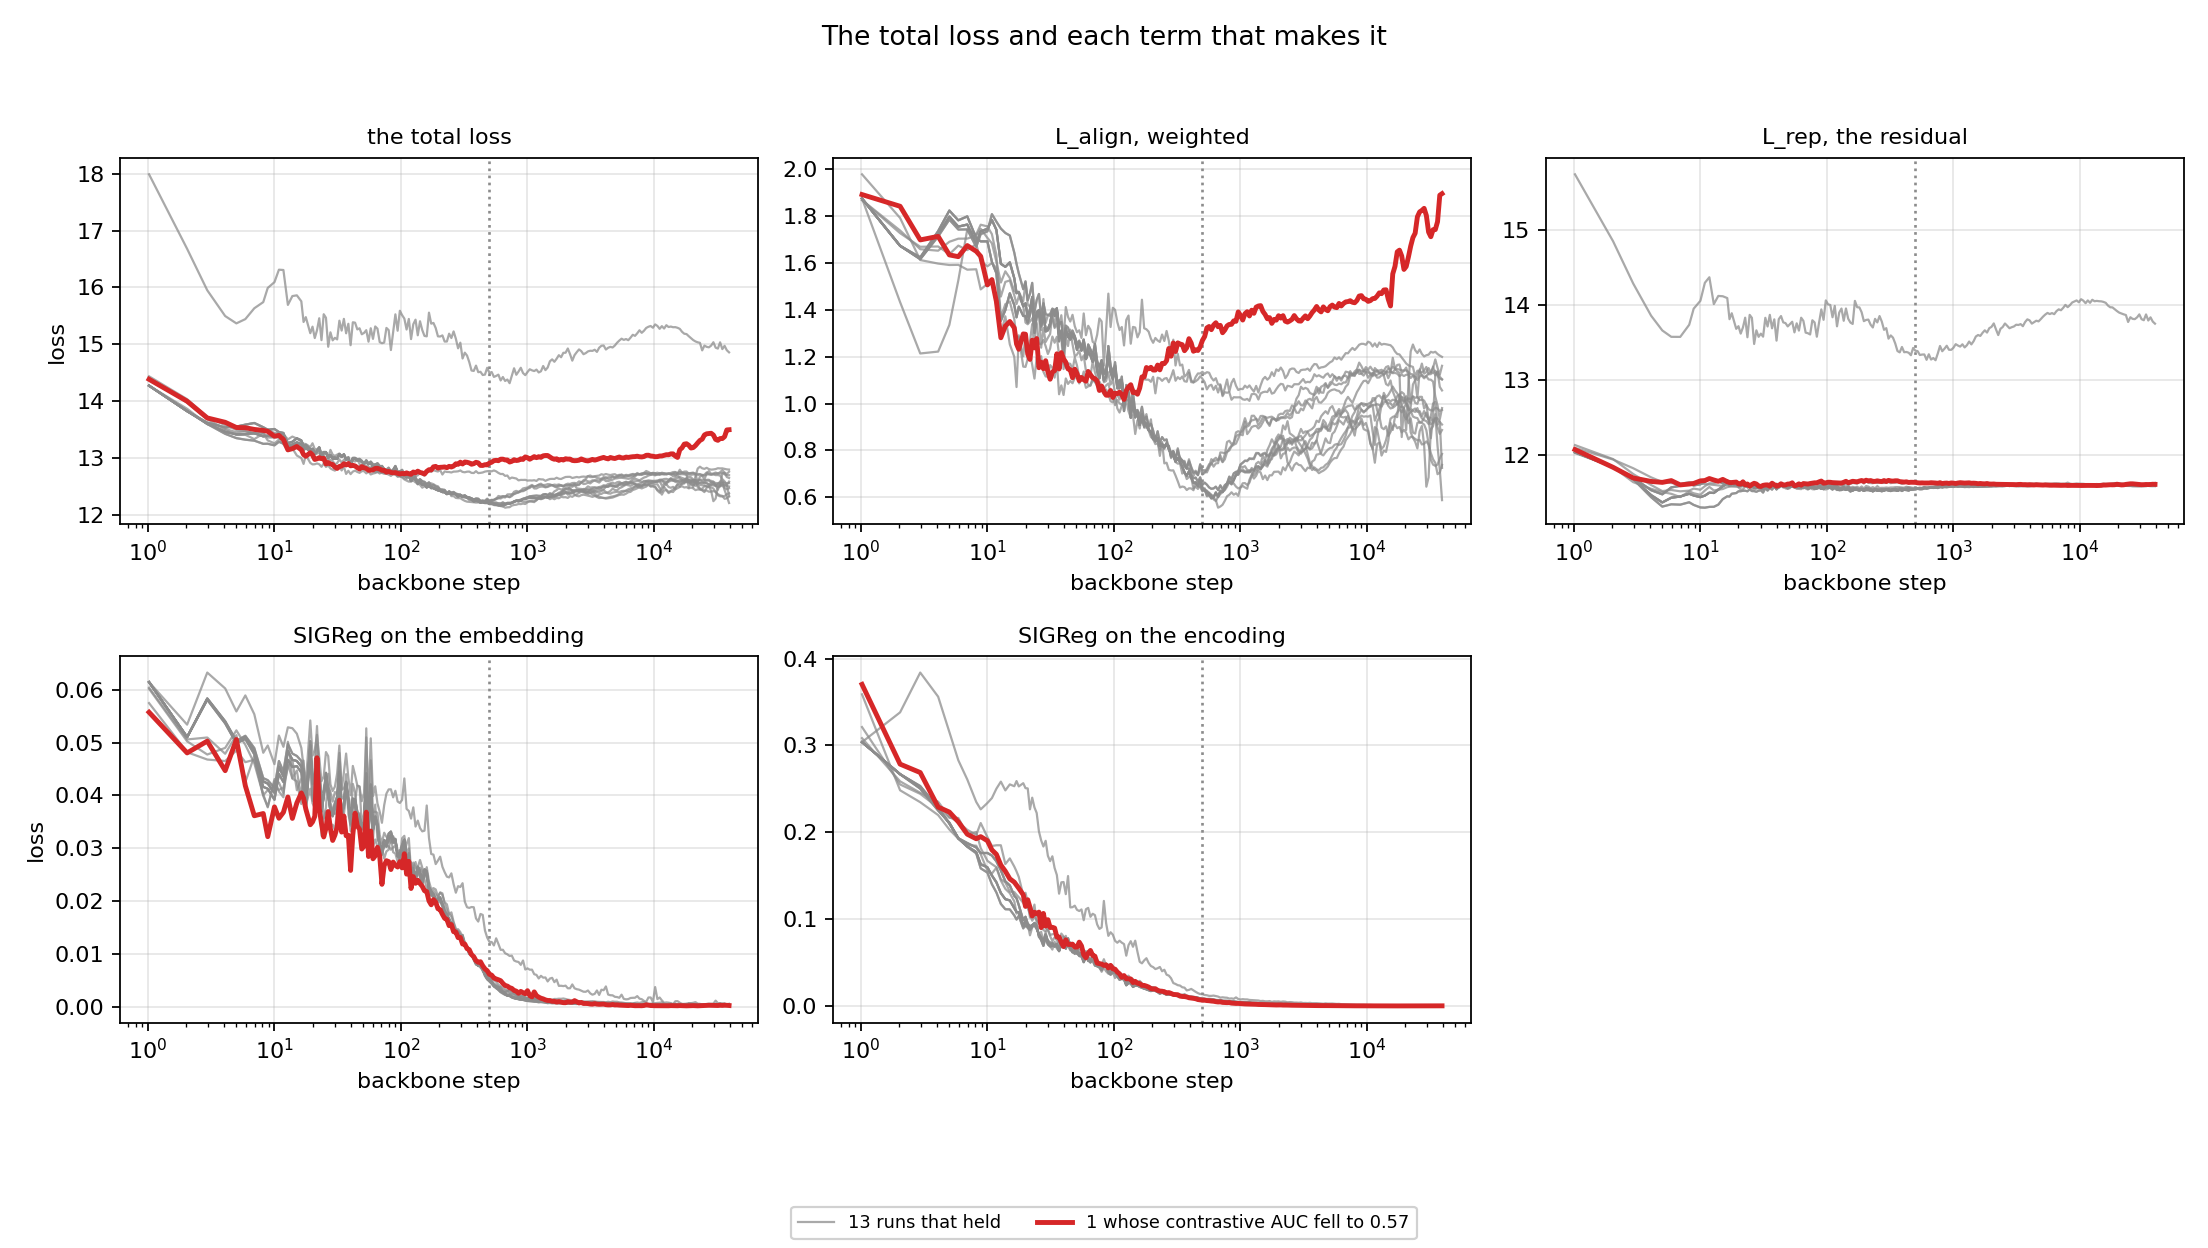
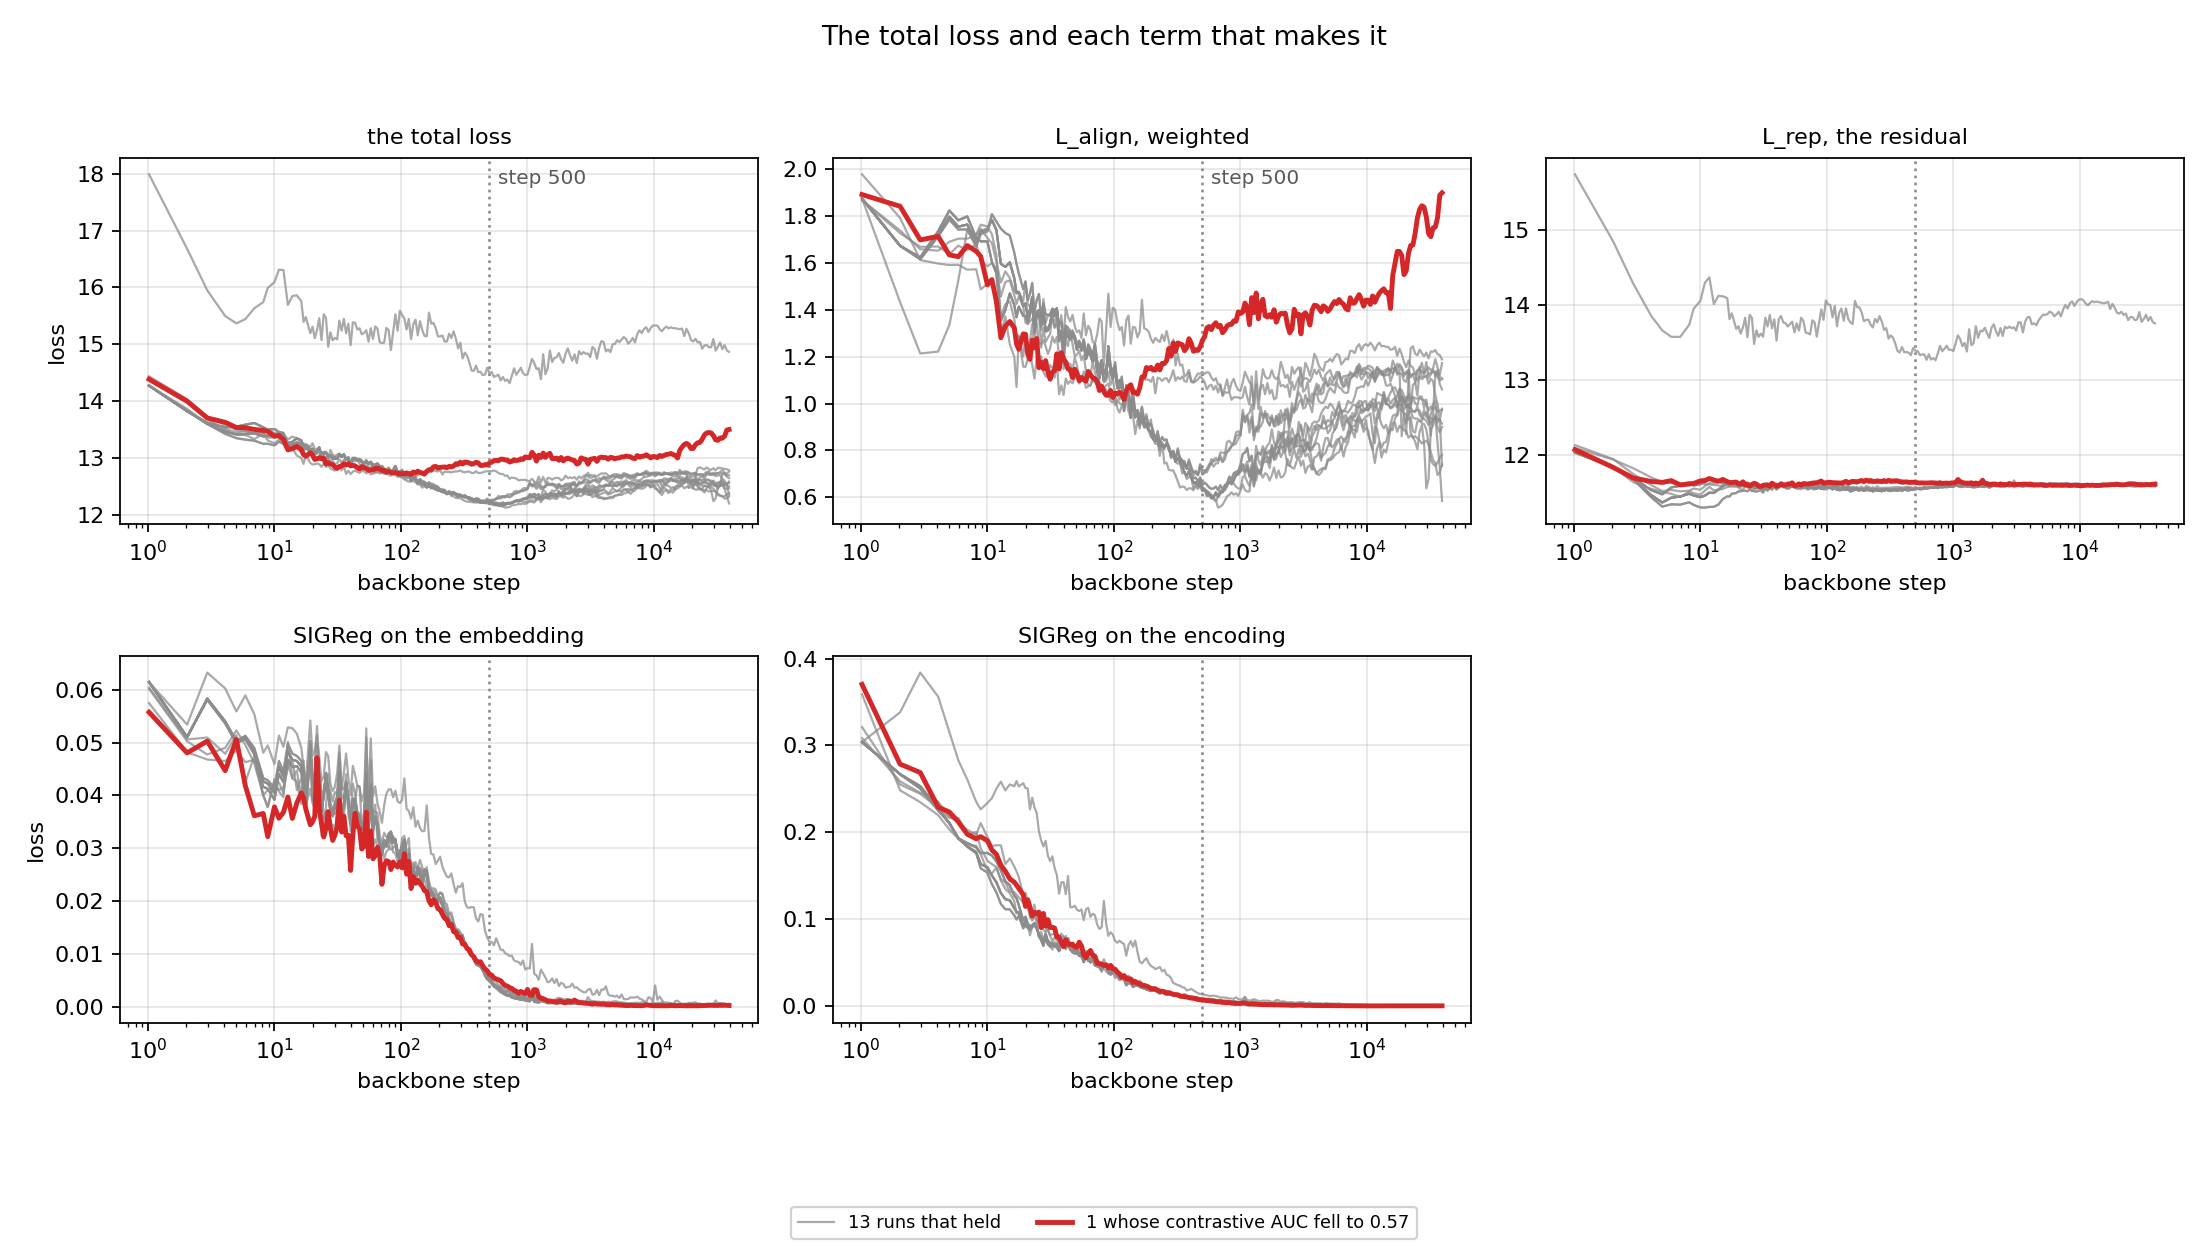
report(#404): the figures carry the story, the body keeps one sentence
The loss-curves figure goes: its content is the first panel of the loss
decomposition. The three sentences the figures already carry go with it.

The total-loss and L_align panels name their dotted marker step 500, so the
sentence under the figure is not needed. make_plots.sh draws loss_terms from
the committed curves, so a redraw cannot bring the deleted figure back and
the deliverable test names the new script. plot_loss_terms.py takes mode 755,
which its shebang asks.

diff --git a/reports/2026-08-19_ema_momentum_k32/scripts/plot_loss_terms.py b/reports/2026-08-19_ema_momentum_k32/scripts/plot_loss_terms.py
@@ -143,6 +143,13 @@ def draw(runs, out, turn=None, cols=3, grey_red=False):
                         color=colours[i % len(colours)], label=label)
         if turn:
             ax.axvline(turn, color="0.55", linestyle=":", linewidth=1.2)
+            # The report keeps no sentence for the turn, so the two panels
+            # that show it name the step themselves.
+            if term in ("total", "align"):
+                ax.annotate(f"step {turn}", xy=(turn, 0.97),
+                            xycoords=("data", "axes fraction"),
+                            xytext=(4, 0), textcoords="offset points",
+                            ha="left", va="top", fontsize=9, color="0.35")
         ax.set_xscale("log")
         ax.set_title(title, fontsize=10)
         ax.set_xlabel("backbone step")

diff --git a/tests/test_404_ema_momentum_k32.py b/tests/test_404_ema_momentum_k32.py
@@ -1885,7 +1885,7 @@ class TestMakePlots:
     def test_it_draws_every_deliverable(self):
         code = strip_comments(MAKE_PLOTS.read_text())
         for script in ("plot_arm_ranking.py", "plot_reached_two_colours.py",
-                       "plot_two_axes.py", "plot_loss_curves.py",
+                       "plot_two_axes.py", "plot_loss_terms.py",
                        "plot_domain_grid.py", "make_table.py",
                        "plot_backbone_health.py"):
             assert script in code, script

diff --git a/reports/2026-08-19_ema_momentum_k32/ema_momentum_k32.md b/reports/2026-08-19_ema_momentum_k32/ema_momentum_k32.md
@@ -1,11 +1,8 @@
 # A momentum that rises from 0.9 to 1.0 over 100,000 steps gives the best score at rollout depth 32
 
-That schedule scores 1.1491 and 1.1507 at two backbone seeds. No arm beats the k = 3 score of 1.0862 at the same stop.
+That schedule scores 1.1491 and 1.1507 at two backbone seeds, but no arm beats the k = 3 score of 1.0862 at the same stop.
 
 ![Every run, by arm](plots/arm_ranking.png)
-
-The arms that carry one seed do not separate from each other.
-Tripling the align-loss weight moves the score less than the seed spread.
 
 ![The momentum each arm reaches at the stop, against its score](plots/reached_vertical.png)
 
@@ -15,11 +12,7 @@ Tripling the align-loss weight moves the score less than the seed spread.
 
 ![The contrastive AUC of every arm against the backbone step](plots/backbone_health.png)
 
-![The training loss of every run](plots/loss_curves.png)
-
 ![The total loss and each term that makes it](plots/loss_terms.png)
-
-The total loss turns near step 500 and rises. L_align carries that rise.
 
 ![GM-Relative MASE per domain](plots/domain_grid.png)
 
